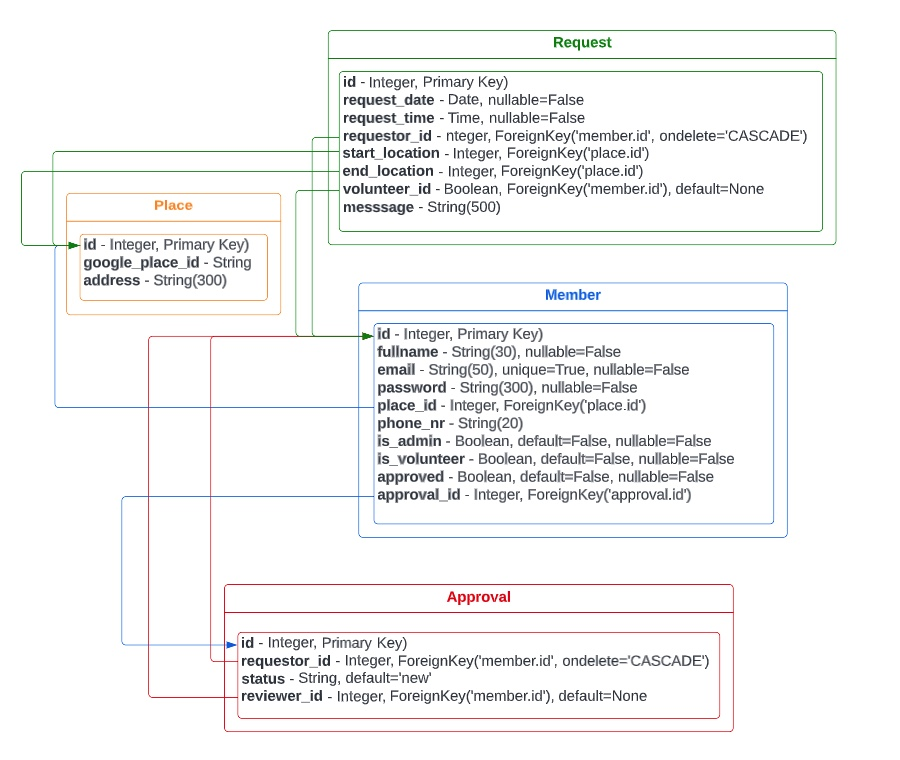
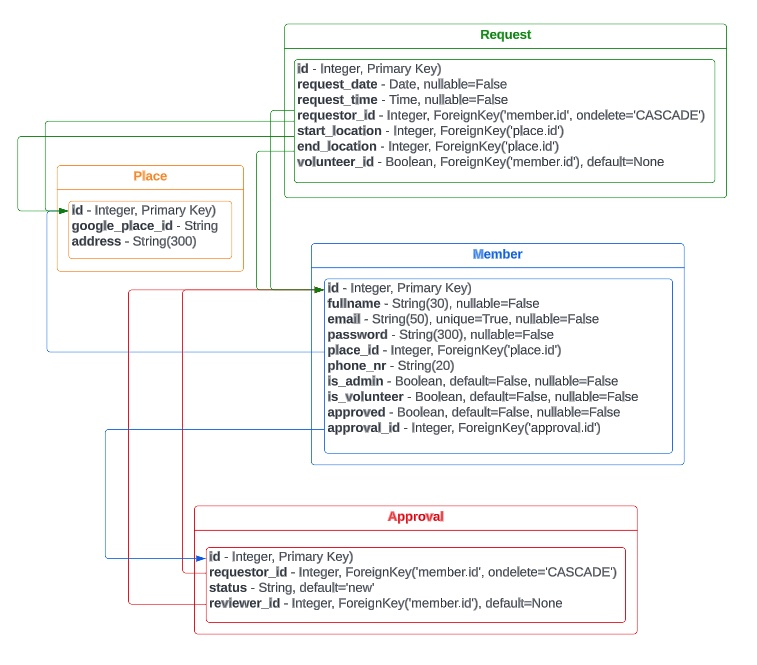
edit text

Changed region(s): [[0.0304, 0.0301, 0.9723, 0.9624]]

diff --git a/commtransport/templates/register.html b/commtransport/templates/register.html
@@ -52,7 +52,7 @@
                     <div class="notification" id="address-notification">
                         <div class="tooltip"></div>
                         <img class="my-small-icon" src="{{ url_for('static', filename='assets/location-grey.svg')}}" alt="location icon">
-                        Please enter a Google-verified address in or around Egham.
+                        Please enter a Google-verified address in or around Egham, UK.
                     </div>
 
                     <input id="address" name="address" type="text" placeholder="" 

diff --git a/README.md b/README.md
@@ -22,13 +22,12 @@ Not for public use.
 
 ## Site Owner's Goals
 
-* Provide a platform for people willing to take part in this local, community transport initiative.
-* Allow anybody to sign up to express interest, but make it clear that it is a local project.
+* Provide a platform for people willing to take part in this initiative. Users should include admins, volunteers as well as people requiring transport.
 * Allow signing up as someone seeking help in the local area.
 * Allow signing up as a potential volunteer.
 * Let admin(s) control who can be accepted to join and manage all their data.
 * Provide authentication of users.
-* The site should serve all users' goals: admins, volunteers and members.
+* The site should serve all types of users' goals: admins, volunteers and members.
 * The site should be easily accessible from a variety of devices.
 <br><br>
 
@@ -40,7 +39,7 @@ As an admin, I would like to
 * have control over accepting / declining users who register.
 * have a record of each individual.
 * be able to edit the relevant records of any user.
-* be able delete any user from the database.
+* be able to delete any user from the database.
 * be able to grant admin / volunteer privilages to other users.
 * be able to take away admin / volunteer privilages from other users.
 * have an overview of all current and past transport requests.
@@ -69,9 +68,9 @@ As a volunteer, I would like to
 * be able to register and safely sign in.
 * be able to edit my own data.
 * be able to view all current outstanding transport requests.
-* be able to sign up for a transport.
-* have an overview of all of the trips I signed up for.
-* be able to cancel any current trips I signed up for.
+* be able to accept a transport request.
+* have an overview of all of the trips I previously accepted.
+* be able to cancel any current trips I previously accepted.
 * be able to delete my own record without a trace.
 
 <br><br>
@@ -121,8 +120,7 @@ Four tables were used to model the data and its relationships.
 
 <br>
 
-Schema Link (by LucidChart - accessible for LucidChart users)
-https://lucid.app/lucidchart/55d32dd7-0602-401b-8492-4d5bce45d4cb/edit?viewport_loc=-34%2C-1175%2C2263%2C1092%2C0_0&invitationId=inv_b0df2289-d582-4b8f-8740-c7cafb034218
+[Schema Link by (accessible for LucidChart users)](https://lucid.app/lucidchart/55d32dd7-0602-401b-8492-4d5bce45d4cb/edit?viewport_loc=-34%2C-1175%2C2263%2C1092%2C0_0&invitationId=inv_b0df2289-d582-4b8f-8740-c7cafb034218)
 
 # Functionality
 
@@ -132,12 +130,12 @@ https://lucid.app/lucidchart/55d32dd7-0602-401b-8492-4d5bce45d4cb/edit?viewport_
 ![Home Page Mobile](readme-images/home-mobile.jpeg)
 ![Mobile Navbar](readme-images/mobile-navbar.jpeg)
 
-The landing page gives a small intro about the organisation's mission and ways to sign up as a volunteer or as someone seeking help with transport. 
+The landing page gives a small intro about the organisation's mission and ways to sign up as a volunteer or as someone seeking help. 
 
 ### Features
 
 * I animated the background image and the red car in the front in CSS to give the impression of the car moving forward. 
-* I drew the red car in [Figma](https://www.figma by copying this [free image](https://www.cleanpng.com/png-car-ferrari-f50-honda-civic-clip-art-red-car-clipa-178920/download-png.html) com/). I needed to separate the car body from the wheels in order to animate them separately.
+* I drew the red car in [Figma](https://www.figma.com/) by copying this [free image](https://www.cleanpng.com/png-car-ferrari-f50-honda-civic-clip-art-red-car-clipa-178920/download-png.html). I needed to separate the car's body from its wheels in order to animate them separately.
 * The responsible navbar is a [Materialize](https://materializecss.com/) feature.
 * The background picture is downloaded from [freesvg.org](https://freesvg.org/cityscape-cartoon-illustration) 
 
@@ -146,7 +144,7 @@ The landing page gives a small intro about the organisation's mission and ways t
 
 ## Registration
 
-People can register for this project by filling in a registration form. However, submitting the form does not give automatic access to the site, an admin is required to approve everyone signing up.
+People can register for this project by filling in a registration form. However, submitting the form does not give automatic access to the site; an admin is required to approve everyone.
 ![Registration Form](readme-images/register-form.jpeg)
 
 ### Features
